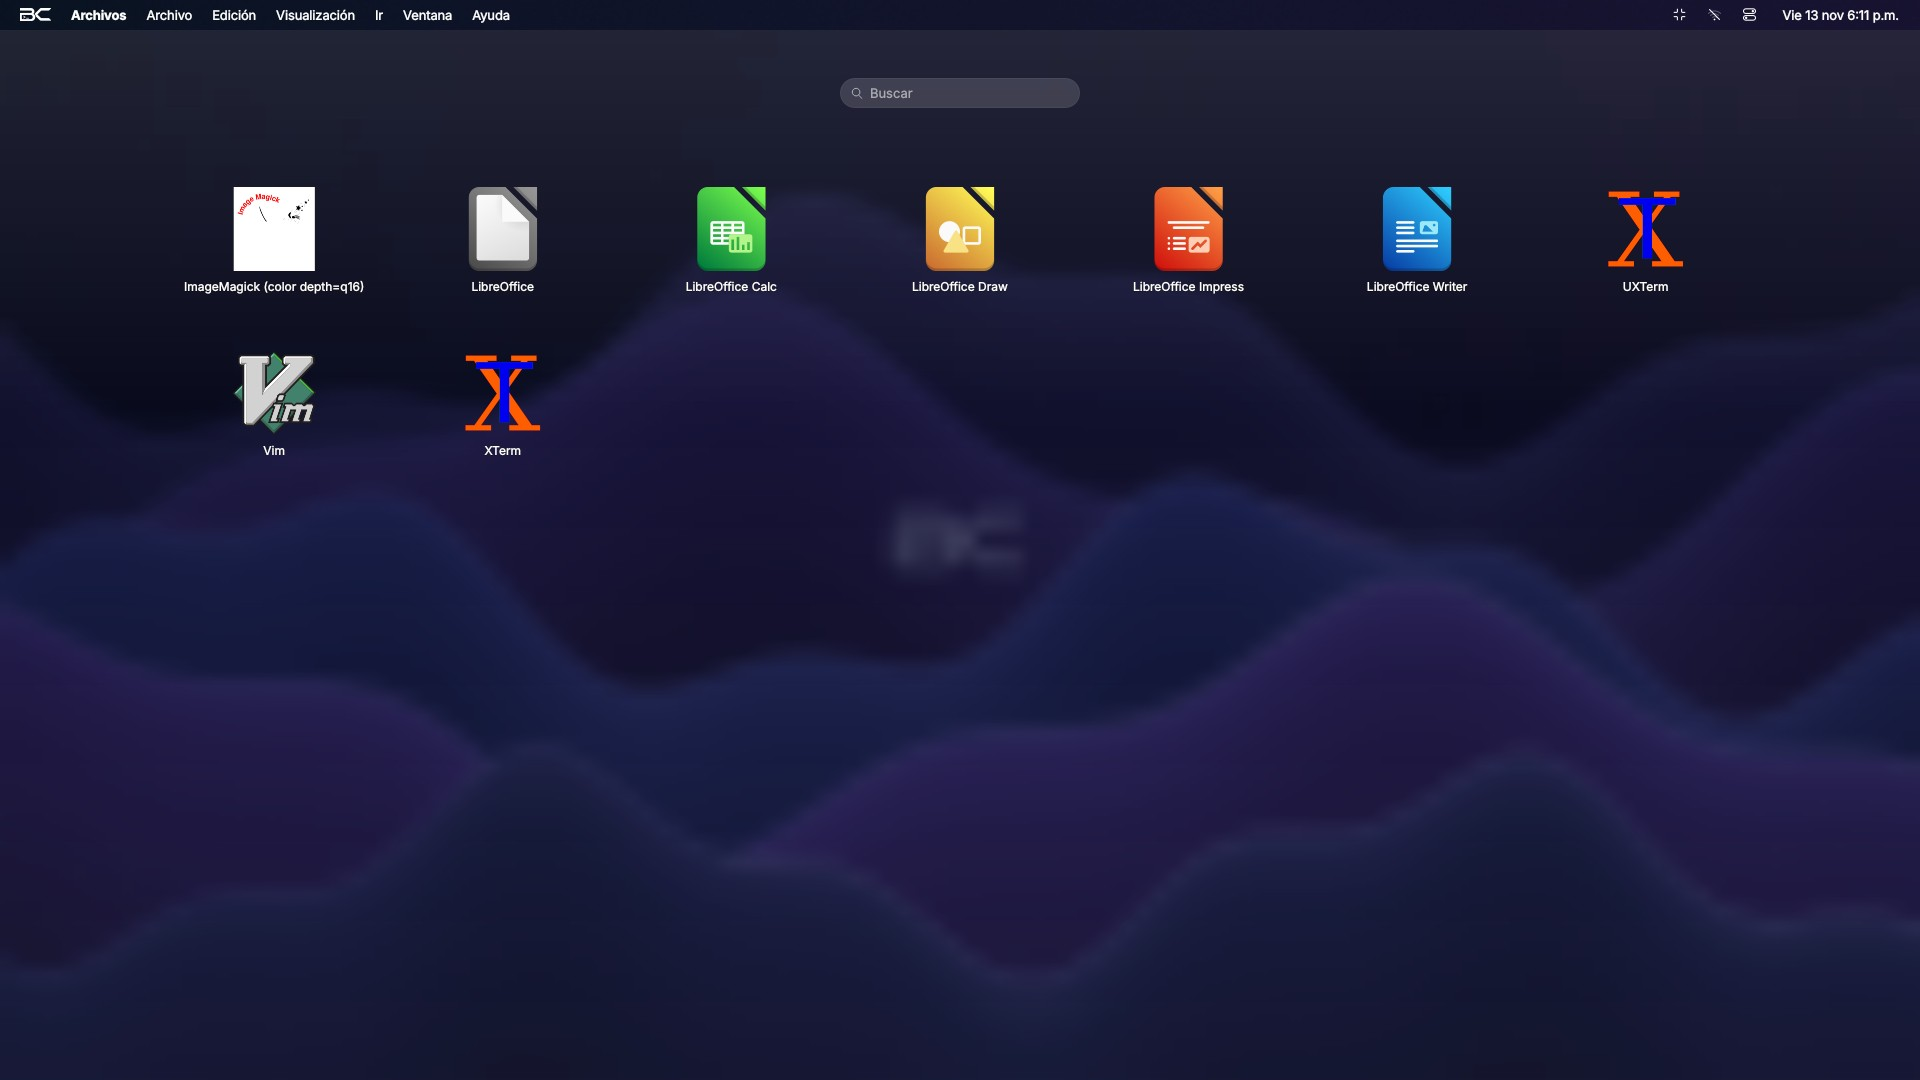
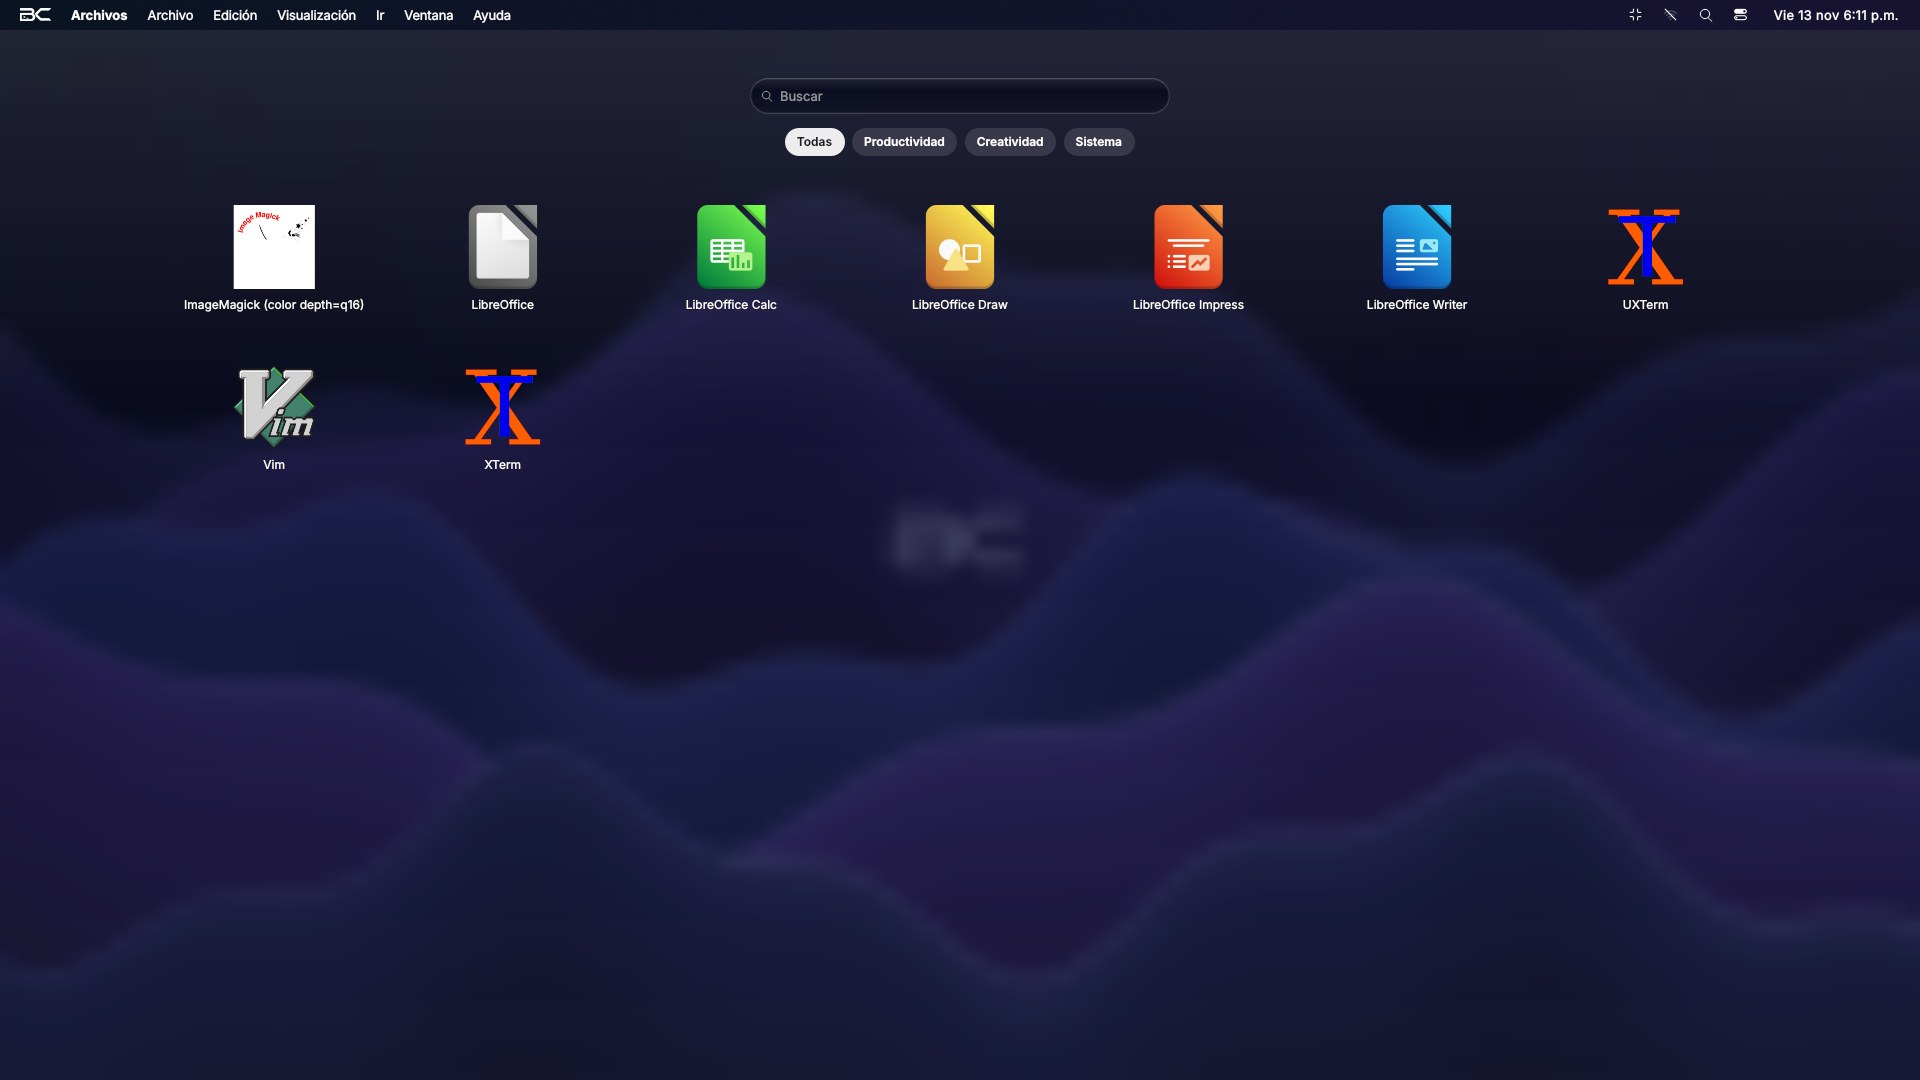
Vista Aplicaciones como en Tahoe/Golden Gate: buscador de vidrio y filtros por categoría (de Categories= de cada app)
Claude-Session: https://claude.ai/code/session_01FS7Yjhmvjsd95xwGrJbZ1Z

diff --git a/shell/qml/Launchpad.qml b/shell/qml/Launchpad.qml
@@ -8,7 +8,9 @@ Item {
     anchors.fill: parent
     readonly property real s: Theme.s
     function px(v) { return Math.round(v * s) }
-    property var apps: []
+    property var all: []
+    property string cat: ""
+    readonly property var apps: cat === "" ? all : all.filter(a => a.category === cat)
     readonly property int cols: 7
     readonly property int rows: 5
     readonly property int perPage: cols * rows
@@ -16,7 +18,7 @@ Item {
     property int page: 0
     signal launch(string id, string name)
     signal done()
-    function reset() { field.text = ""; apps = Apps.search(""); page = 0; field.forceActiveFocus() }
+    function reset() { field.text = ""; cat = ""; all = Apps.search(""); page = 0; field.forceActiveFocus() }
 
     // Fondo: el escritorio desenfocado y oscurecido
     Glass { anchors.fill: parent; radius: 0; shadow: false; rim: false; tintBoost: 0.25 }
@@ -26,13 +28,13 @@ Item {
     Item {
         id: search
         anchors.horizontalCenter: parent.horizontalCenter; y: px(48)
-        width: px(240); height: px(30)
-        Rectangle { anchors.fill: parent; radius: height / 2; color: Qt.rgba(1, 1, 1, 0.14); border.width: 1; border.color: Qt.rgba(1, 1, 1, 0.18) }
+        width: px(420); height: px(36)
+        Glass { anchors.fill: parent; radius: height / 2; tintBoost: 0.3; shadow: false }
         Icon { x: px(10); anchors.verticalCenter: parent.verticalCenter; name: Icons.search; size: px(14); color: Qt.rgba(1, 1, 1, 0.7) }
         TextInput {
             id: field; x: px(30); width: parent.width - px(40); anchors.verticalCenter: parent.verticalCenter
             color: "white"; font.family: Theme.font; font.pixelSize: px(13); focus: true
-            onTextChanged: { lp.apps = Apps.search(text); lp.page = 0 }
+            onTextChanged: { lp.all = Apps.search(text); lp.page = 0 }
             Keys.onEscapePressed: lp.done()
             Keys.onReturnPressed: if (lp.apps.length) lp.launch(lp.apps[0].id, lp.apps[0].name)
             Keys.onRightPressed: lp.page = Math.min(lp.pages - 1, lp.page + 1)
@@ -45,10 +47,29 @@ Item {
     property real zoom: 1
     onVisibleChanged: if (visible) { zoom = 1.08; zoomIn.restart() }
     NumberAnimation { id: zoomIn; target: lp; property: "zoom"; to: 1; duration: Theme.d(Theme.durLaunchpad); easing.type: Theme.easeEmphasized }
+    // Categorías (vista Aplicaciones de Tahoe/Golden Gate)
+    Row {
+        id: chips
+        anchors.horizontalCenter: parent.horizontalCenter; y: px(98); spacing: px(8)
+        Repeater {
+            model: [ { k: "", t: qsTr("Todas") }, { k: "productividad", t: qsTr("Productividad") }, { k: "creatividad", t: qsTr("Creatividad") },
+                     { k: "internet", t: qsTr("Internet") }, { k: "utilidades", t: qsTr("Utilidades") }, { k: "desarrollo", t: qsTr("Desarrollo") },
+                     { k: "juegos", t: qsTr("Juegos") }, { k: "sistema", t: qsTr("Sistema") } ]
+            Rectangle {
+                required property var modelData
+                visible: modelData.k === "" || lp.all.some(a => a.category === modelData.k)
+                width: ct.implicitWidth + px(24); height: px(28); radius: height / 2
+                color: lp.cat === modelData.k ? Qt.rgba(1, 1, 1, 0.92) : Qt.rgba(1, 1, 1, cm.containsMouse ? 0.22 : 0.12)
+                Text { id: ct; anchors.centerIn: parent; text: modelData.t; color: lp.cat === modelData.k ? "#1D1D1F" : "white"
+                       font.family: Theme.font; font.pixelSize: px(12); font.weight: Font.DemiBold }
+                MouseArea { id: cm; anchors.fill: parent; hoverEnabled: true; onClicked: { lp.cat = modelData.k; lp.page = 0 } }
+            }
+        }
+    }
     Item {
         id: viewport
         scale: lp.zoom
-        x: px(160); y: px(130); width: parent.width - px(320); height: parent.height - px(260)
+        x: px(160); y: px(150); width: parent.width - px(320); height: parent.height - px(280)
         clip: true
         Row {
             id: strip

diff --git a/shell/src/appindex.cpp b/shell/src/appindex.cpp
@@ -37,6 +37,7 @@ bool AppIndex::parseDesktop(const QString &text, const QString &lang, Entry &out
         else if (k == "NoDisplay") noDisplay = v == "true";
         else if (k == "Hidden") hidden = v == "true";
         else if (k == "Terminal") out.terminal = v == "true";
+        else if (k == "Categories") out.category = categoryFor(v);
     }
     if (!isApp || noDisplay || hidden || exec.isEmpty()) return false;
     out.name = localized.isEmpty() ? name : localized;
@@ -118,7 +119,7 @@ QVariantList AppIndex::search(const QString &query) const {
     std::stable_sort(hits.begin(), hits.end(), [](const Scored &a, const Scored &b) { return a.score > b.score; });
     for (const Scored &h : hits)
         out.append(QVariantMap{{"id", h.e->id}, {"name", h.e->name}, {"icon", h.e->icon}, {"comment", h.e->comment},
-                               {"iconPath", resolveIcon(h.e->icon)}});
+                               {"iconPath", resolveIcon(h.e->icon)}, {"category", h.e->category}});
     return out;
 }
 
@@ -145,4 +146,16 @@ QVariantMap AppIndex::infoFor(const QString &appId) const {
             return {{"id", e.id}, {"name", e.name}, {"icon", e.icon}, {"iconPath", resolveIcon(e.icon)}};
     }
     return {};
+}
+
+QString AppIndex::categoryFor(const QString &cats) {
+    const QStringList c = cats.split(';', Qt::SkipEmptyParts);
+    auto has = [&](std::initializer_list<const char *> l) { for (const char *x : l) if (c.contains(QLatin1String(x))) return true; return false; };
+    if (has({"Game"})) return "juegos";
+    if (has({"Graphics", "AudioVideo", "Audio", "Video", "Photography"})) return "creatividad";
+    if (has({"Office", "Calendar", "TextEditor", "WordProcessor", "Spreadsheet"})) return "productividad";
+    if (has({"Network", "WebBrowser", "Email", "Chat"})) return "internet";
+    if (has({"Development", "IDE"})) return "desarrollo";
+    if (has({"Settings", "System", "Monitor", "PackageManager", "TerminalEmulator", "FileManager"})) return "sistema";
+    return "utilidades";
 }

diff --git a/shell/src/appindex.h b/shell/src/appindex.h
@@ -7,7 +7,7 @@ class AppIndex : public QObject {
     Q_OBJECT
     Q_PROPERTY(int count READ count NOTIFY changed)
 public:
-    struct Entry { QString id, name, exec, icon, comment; bool terminal = false; };
+    struct Entry { QString id, name, exec, icon, comment, category; bool terminal = false; };
     explicit AppIndex(const QStringList &dirs = QStringList(), const QString &lang = QString(), QObject *parent = nullptr);
     int count() const { return m_entries.size(); }
     static bool isHiddenId(const QString &id);
@@ -22,6 +22,8 @@ public:
     static bool parseDesktop(const QString &text, const QString &lang, Entry &out);
     // Quita códigos de campo (%f %u ...) y separa en programa + argumentos.
     static QStringList commandFor(const QString &exec, bool terminal);
+    // Categoría de la vista Aplicaciones a partir de Categories= (Productividad, Creatividad, Utilidades, Juegos, Sistema, Internet)
+    static QString categoryFor(const QString &categories);
 signals:
     void changed();
 
